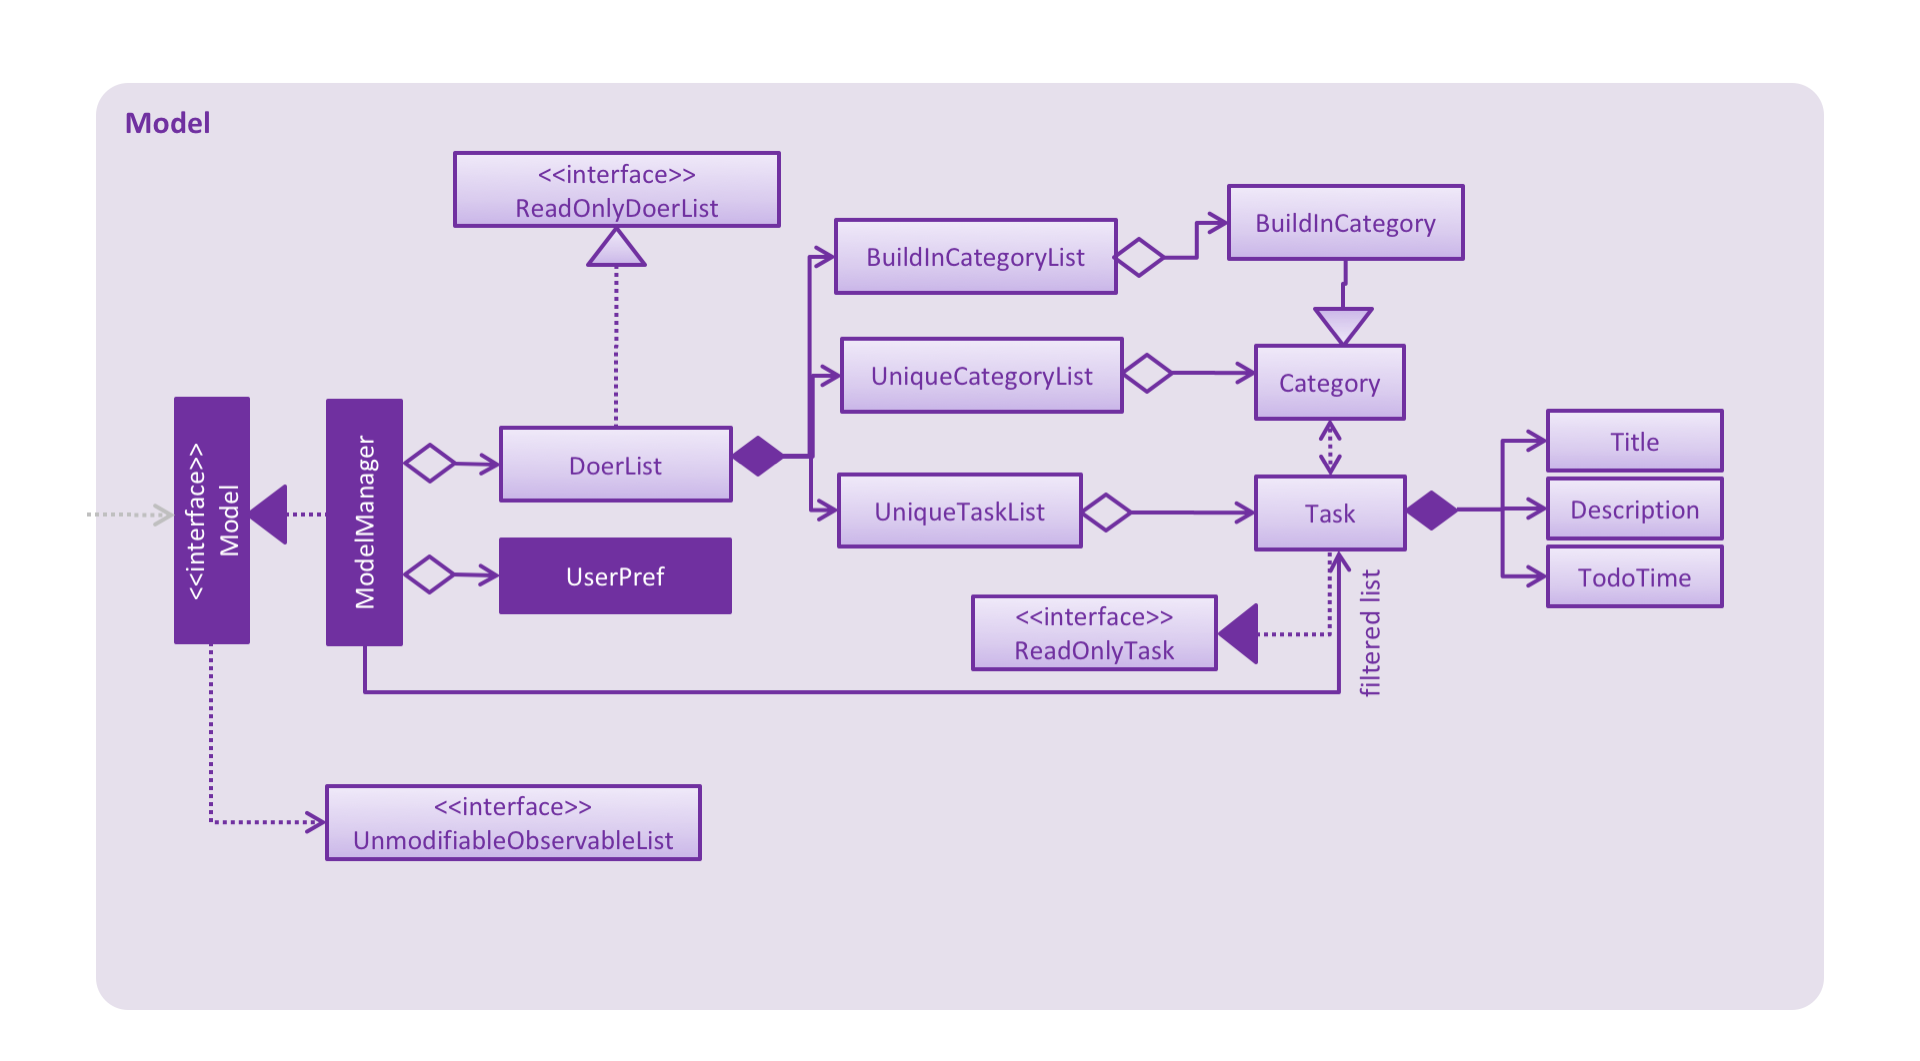
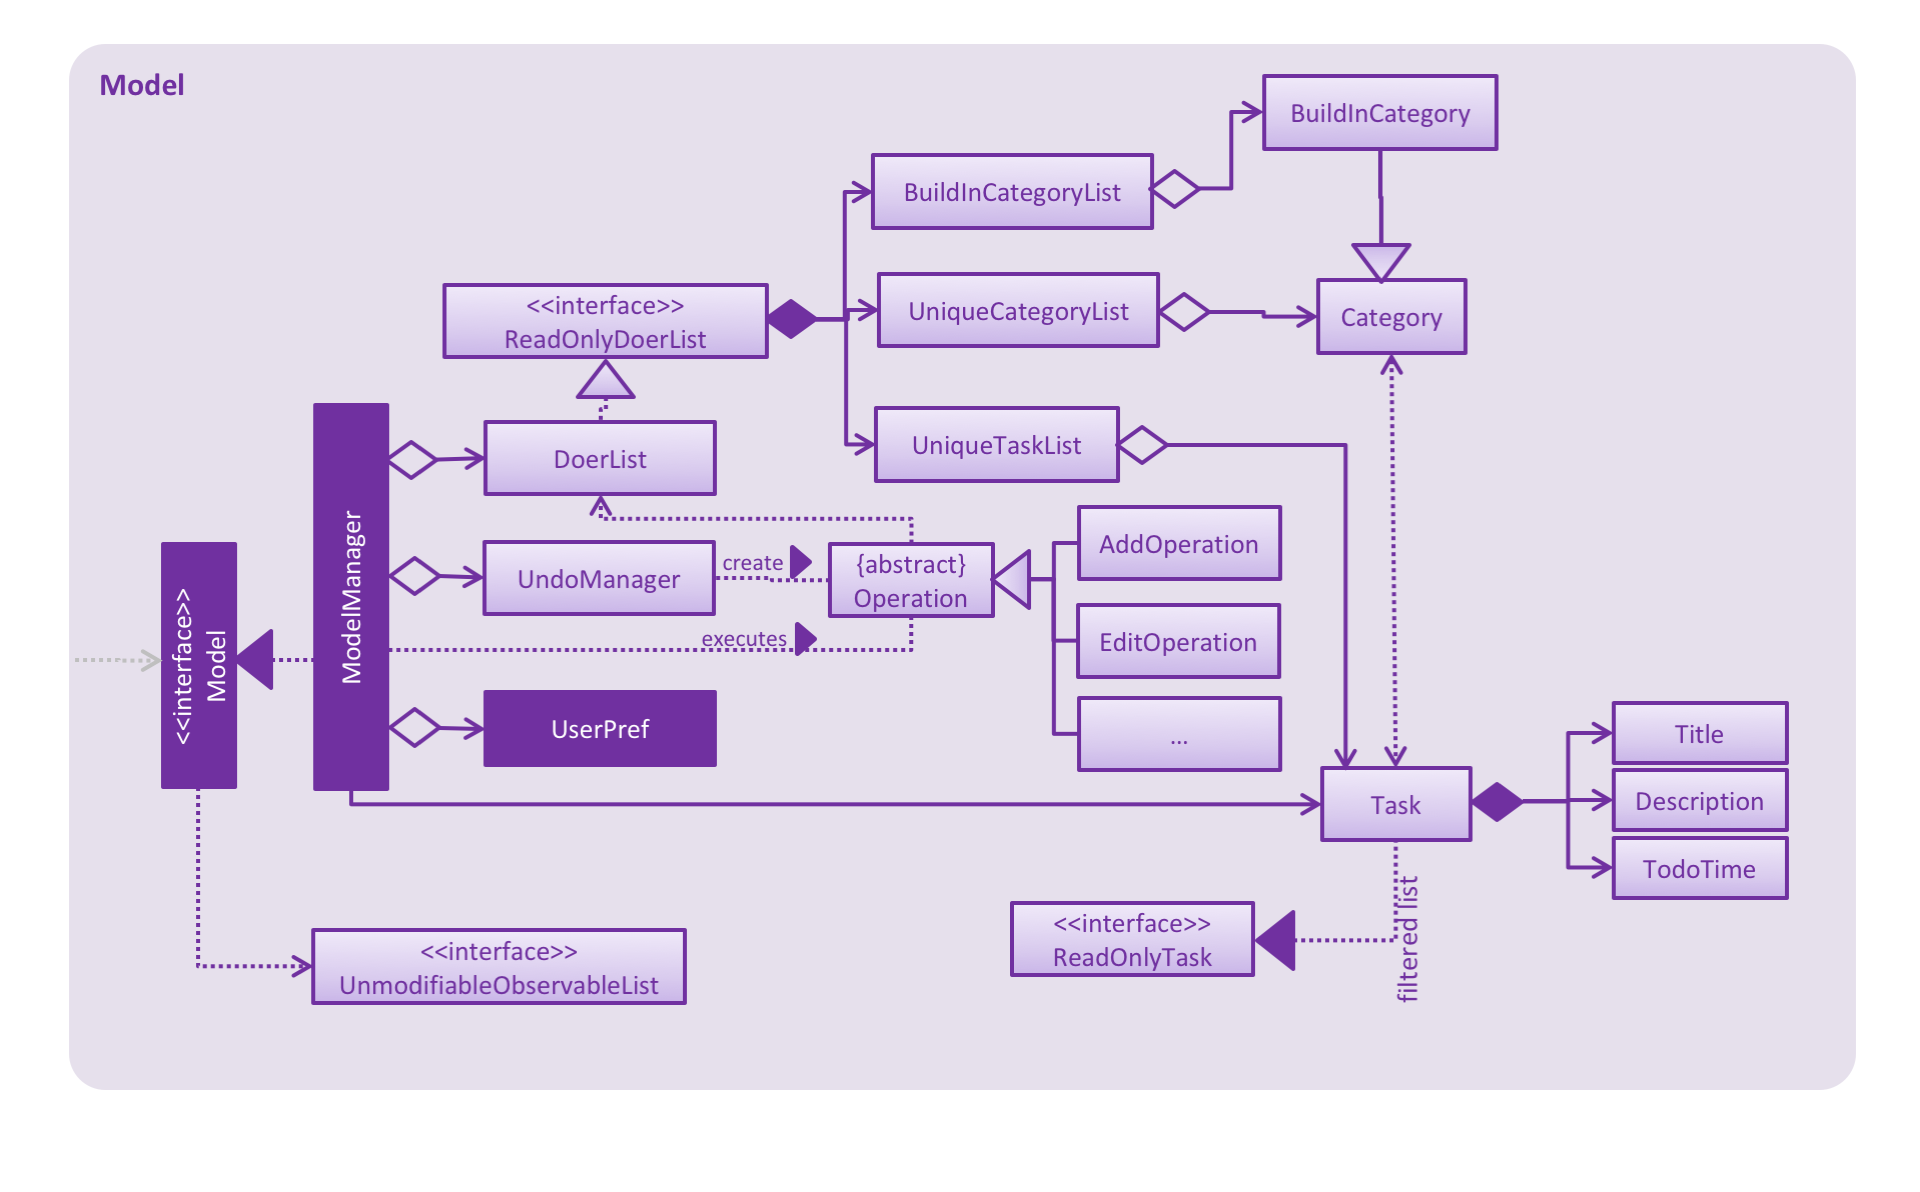
update Model in DG

diff --git a/docs/DeveloperGuide.md b/docs/DeveloperGuide.md
@@ -127,12 +127,13 @@ Given below is the Sequence Diagram for interactions within the `Logic` componen
 
 <img src="images/ModelClassDiagram.png" width="800"><br>
 
-**API** : [`Model.java`](../src/main/java/seedu/address/model/Model.java)
+**API** : [`Model.java`](../src/main/java/seedu/doerList/model/Model.java)
 
 The `Model`,
 * stores a `UserPref` object that represents the user's preferences.
 * stores the Do-er List data.
-* exposes a `UnmodifiableObservableList<ReadOnlyPerson>` that can be 'observed' (E.g. the UI can be bound to this list) so that the UI automatically updates when the data in the list changes.
+* stores a `UndoManager` that records the history operation to Do-er List data
+* exposes `UnmodifiableObservableList<ReadOnlyTask>`, `UnmodifiableObservableList<Category>` that can be 'observed' (E.g. the UI can be bound to this list) so that the UI automatically updates when the data in the list changes.
 * does not depend on any of the other three components.
 
 [//]: # (@@author)

diff --git a/collated/docs/A0147978E.md b/collated/docs/A0147978E.md
@@ -28,12 +28,13 @@ The `UI` component,
 
 <img src="images/ModelClassDiagram.png" width="800"><br>
 
-**API** : [`Model.java`](../src/main/java/seedu/address/model/Model.java)
+**API** : [`Model.java`](../src/main/java/seedu/doerList/model/Model.java)
 
 The `Model`,
 * stores a `UserPref` object that represents the user's preferences.
 * stores the Do-er List data.
-* exposes a `UnmodifiableObservableList<ReadOnlyPerson>` that can be 'observed' (E.g. the UI can be bound to this list) so that the UI automatically updates when the data in the list changes.
+* stores a `UndoManager` that records the history operation to Do-er List data
+* exposes `UnmodifiableObservableList<ReadOnlyTask>`, `UnmodifiableObservableList<Category>` that can be 'observed' (E.g. the UI can be bound to this list) so that the UI automatically updates when the data in the list changes.
 * does not depend on any of the other three components.
 
 ```
